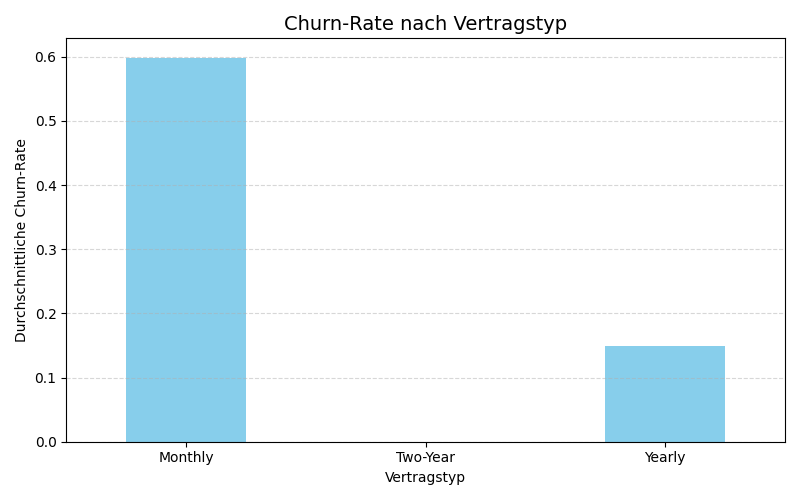
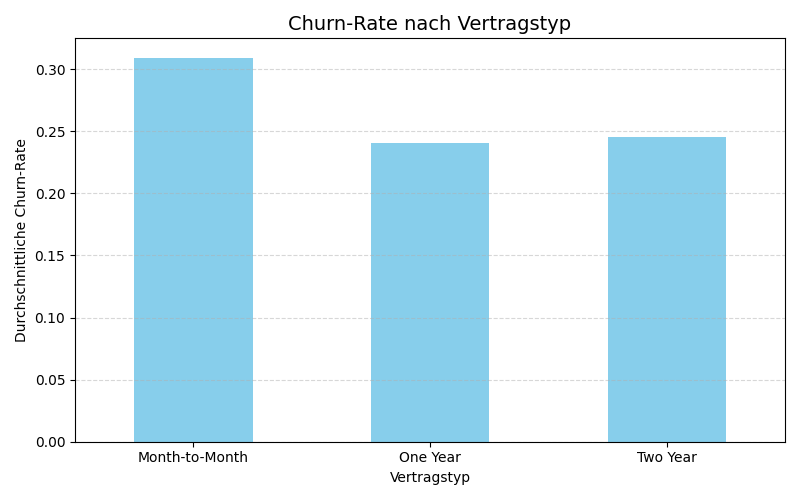
Fix churn analysis and add threshold evaluation

diff --git a/churn_analysis.py b/churn_analysis.py
@@ -28,11 +28,11 @@ print(df.isnull().sum())
 
 
 # Zielspalte Churn (nur wenn vorhanden)
-if "Churn" in df.columns:
+if "churn" in df.columns:
     print("\nChurn-Verteilung:")
-    print(df["Churn"].value_counts(normalize=True))
+    print(df["churn"].value_counts(normalize=True))
 else:
-    print("\nKeine 'Churn'-Spalte im Datensatz. (Kein Problem für generelle EDA)")
+    print("\nKeine 'churn'-Spalte im Datensatz. (Kein Problem für generelle EDA)")
 
 
 # Vorschau
@@ -41,7 +41,7 @@ print("\nDatenvorschau:")
 print(df.head())
 
 # Gruppierte Churn-Rate nach Vertragstyp
-churn_by_contract = df.groupby("ContractType")["Churn"].mean()
+churn_by_contract = df.groupby("contract_type")["churn"].mean()
 
 # Plot
 plt.figure(figsize=(8, 5))
@@ -55,46 +55,77 @@ plt.tight_layout()
 plt.savefig("bar_churn_by_contract.png")
 plt.clf()
 
-# Boxplot für UsageHours
+# Boxplot: Kundendauer nach Churn-Status
 plt.figure(figsize=(8, 5))
-sns.boxplot(x="Churn", y="UsageHours", data=df, palette=[colors["boxplot"], "lightgray"])
-plt.title("Monatliche Nutzung nach Churn-Status")
-plt.xlabel("Churn (0 = aktiv, 1 = gekündigt)")
-plt.ylabel("Monatliche Nutzungsstunden")
-plt.grid(True, axis='y', linestyle="--", alpha=0.5)
+sns.boxplot(
+    x="churn",
+    y="tenure_months",
+    data=df,
+    color=colors["boxplot"]
+)
+plt.title("Kundendauer nach Churn-Status")
+plt.xlabel("Churn (0 = geblieben, 1 = gekündigt)")
+plt.ylabel("Bisherige Kundendauer (Monate)")
+plt.grid(True, axis="y", linestyle="--", alpha=0.5)
 plt.tight_layout()
-plt.savefig("boxplot_usage_by_churn.png")
+plt.savefig("boxplot_tenure_by_churn.png")
 plt.clf()
 
-# Histogramm: Verteilung der Logins
-
+# Histogramm: Verteilung der monatlichen Gebühren
 plt.figure(figsize=(8, 5))
-df["LastLogin"].hist(bins=20, color=colors["histogram"], edgecolor="black")
-plt.title("Verteilung: Tage seit letztem Login", fontsize=14)
-plt.xlabel("Tage seit letztem Login")
+df["monthly_charges"].hist(
+    bins=20,
+    color=colors["histogram"],
+    edgecolor="black"
+)
+plt.title("Verteilung der monatlichen Gebühren", fontsize=14)
+plt.xlabel("Monatliche Gebühren")
 plt.ylabel("Anzahl der Kunden")
-plt.grid(True, axis='y', linestyle="--", alpha=0.5)
+plt.grid(True, axis="y", linestyle="--", alpha=0.5)
 plt.tight_layout()
-plt.savefig("hist_last_login.png")
+plt.savefig("hist_monthly_charges.png")
 plt.clf()
 
 # --- Feature Engineering & Datenvorbereitung für Modellierung ---
 
 # One-Hot-Encoding für kategoriale Variablen
-df_encoded = pd.get_dummies(df, columns=["ContractType", "PaymentMethod"], drop_first=True)
+df_encoded = pd.get_dummies(
+    df,
+    columns=["contract_type"],
+    drop_first=True,
+    dtype=int
+)
 
 # Features und Ziel definieren
-X = df_encoded.drop(["CustomerID", "Churn"], axis=1)
-y = df_encoded["Churn"]
-
-# Numerische Features skalieren
-from sklearn.preprocessing import StandardScaler
-scaler = StandardScaler()
-X_scaled = scaler.fit_transform(X)
+X = df_encoded.drop(
+    columns=["customer_id", "churn", "gender"]
+)
+y = df_encoded["churn"]
 
 # Train-Test-Split
-from sklearn.model_selection import train_test_split
-X_train, X_test, y_train, y_test = train_test_split(X_scaled, y, test_size=0.2, random_state=42)
+X_train, X_test, y_train, y_test = train_test_split(
+    X,
+    y,
+    test_size=0.2,
+    random_state=42,
+    stratify=y
+)
+
+# Numerische Features skalieren
+scaler = StandardScaler()
+
+numeric_features = ["tenure_months", "monthly_charges"]
+
+X_train = X_train.copy()
+X_test = X_test.copy()
+
+X_train[numeric_features] = scaler.fit_transform(
+    X_train[numeric_features]
+)
+
+X_test[numeric_features] = scaler.transform(
+    X_test[numeric_features]
+)
 
 from sklearn.linear_model import LogisticRegression
 from sklearn.metrics import accuracy_score, confusion_matrix, classification_report
@@ -106,10 +137,25 @@ model.fit(X_train, y_train)
 # Vorhersage treffen
 y_pred = model.predict(X_test)
 
+y_proba = model.predict_proba(X_test)[:, 1]
+print("Kündigungswahrscheinlichkeiten (erste 10):", y_proba[:10])
+
+# Experiment: niedrigerer Schwellenwert
+y_pred_30 = (y_proba >= 0.30).astype(int)
+
+print("\nConfusion Matrix bei 30 %:")
+print(confusion_matrix(y_test, y_pred_30))
+
+print("\nClassification Report bei 30 %:")
+print(classification_report(y_test, y_pred_30, zero_division=0))
+
 # Ergebnisse anzeigen
 print("\n🔍 Modellbewertung:")
 print(f"Genauigkeit: {accuracy_score(y_test, y_pred):.2f}")
 print("\nKonfusionsmatrix:")
 print(confusion_matrix(y_test, y_pred))
 print("\nKlassifikationsbericht:")
-print(classification_report(y_test, y_pred))
+print(classification_report(y_test, y_pred, zero_division=0))
+print("Minimum:", y_proba.min())
+print("Maximum:", y_proba.max())
+print("Durchschnitt:", y_proba.mean())
